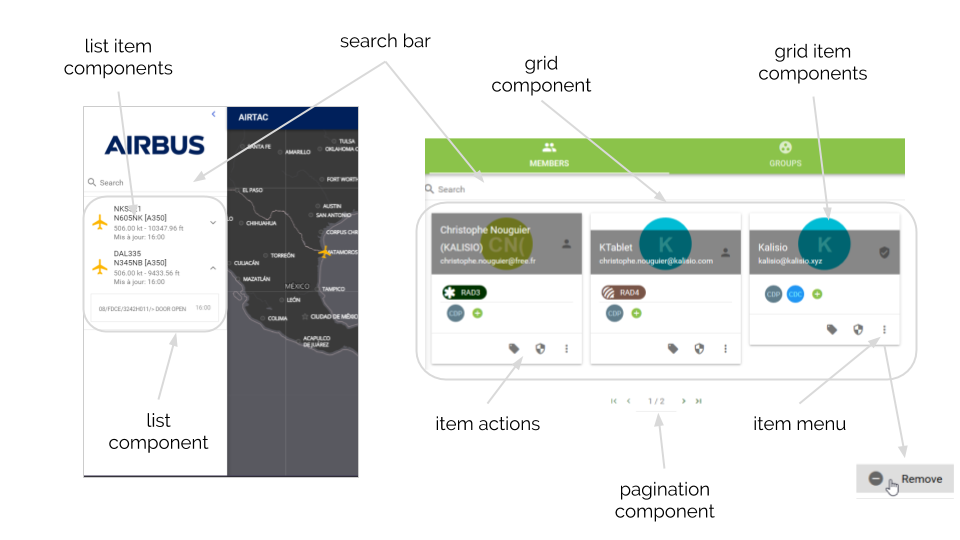
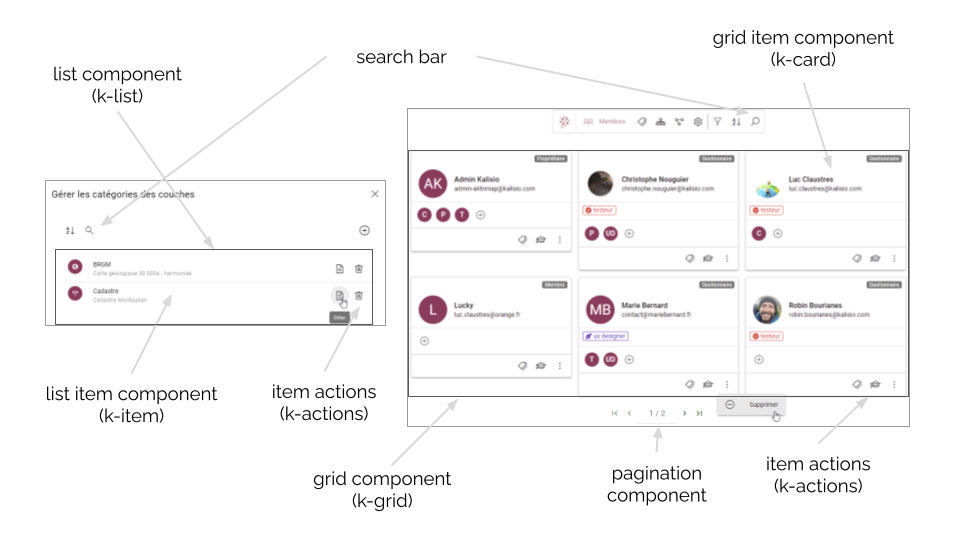
feat: Refactored and homogenize the layout (closes #285) Updated docs for v1.3

diff --git a/docs/api/core/components.md b/docs/api/core/components.md
@@ -8,34 +8,46 @@ There is no generic activity component within the core module because activities
 
 ## Layout
 
-The basic application layout rely on [Material Design](https://material.io/), as illustred in our [Akt'n'Map](https://github.com/kalisio/aktnmap) application, and is the following:
+The basic application layout relies on [Material Design](https://material.io/) and is composed of a *page* with different *panes* that can de open/closed on-demand, as illustred in our [Kano](https://github.com/kalisio/kano) application:
 
-![Akt'n'Map layout](../../assets/aktnmap-layout.png)
+![Kano layout - 1](../../assets/kano-layout-1.png)
 
-The layout is flexible enough to only use part of it like e.g. the [Kano](https://github.com/kalisio/kano) application which is a map-centered UI with the following layout:
+Here is the layout in a different configuration to show additional components like the *window* composed of different *widgets* to be selected using a *tab* and the *FAB* (floating actions button):
 
-![Kano layout](../../assets/kano-layout.png)
+![Kano layout - 2](../../assets/kano-layout-2.png)
+
+The layout is flexible enough to only use part of it like e.g. the [Akt'n'Map](https://github.com/kalisio/aktnmap) application is not a map-centered UI and the bottom/right panes are not always used for instance. Althought it can be built programmatically it aims at being constructed from the [application configuration](../../guides/basics/step-by-step.md#frontend-side) as well.
 
 The **k-layout** component based on [QLayout](https://quasar.dev/layout/layout) contains the elements that wrap application's content:
-* **k-app-bar**: application bar shown on top of the page - can be overriden using the *header* slot
-* **k-side-nav** : a left side navigation panel (which is shown alongside page content on wide screens) - can be overriden using the *left* slot
-* **k-right-panel** : a right side panel (which can be shown alongside page content on wide screens) - can be overriden using the *right* slot
-* **k-tab-bar**: a navigation with [QTabs](https://quasar.dev/vue-components/tabs) - can be overriden using the *navigation* slot
-* **k-fab**: an action button based on a [Quasar Floating Action Button](https://quasar.dev/layout/floating-action-button) at the bottom right corner of the page
-* **k-search-bar**: a global search bar
-* the embedded content of the page (i.e. the **Activity**) as a [router-view](https://router.vuejs.org/api/#router-view)
+* **header**: page header based on [q-header](https://quasar.dev/layout/header-and-footer)
+* **footer**: page footer based on [q-footer](https://quasar.dev/layout/header-and-footer)
+* **page**: activity components are injected using [nested routes and lazy-loading](https://quasar.dev/layout/routing-with-layouts-and-pages)
+
+The embedded content of the page (i.e. the **Activity**) is a [router-view](https://router.vuejs.org/api/#router-view) pointing to a **k-page** component, which consists of a:
+* **top pane**: a panel shown on top of the page - usually used as an application bar
+* **left pane** : a left side navigation panel - usually used as a main menu
+* **right pane** : a right side panel - usually used as an additional contextual panel
+* **bottom pane**: a panel shown at the bottom of the page
+* **fab**: an action button based on a [Quasar Floating Action Button](https://quasar.dev/layout/floating-action-button) at the bottom right corner of the page
+* **page content**: additional page components to be dynamically injected into the activity
+* **window**: a top window, which can be maximized, composed of a set of widgets to provide additional graphical content
 
 ::: tip
-The application layout is usually wrapped using the **k-home** component that simply load it depending on the authentication state of the user.
+The application layout is usually wrapped using the **k-home** component that simply load it depending on the authentication state of the user. You can directly use the **k-layout** if you'd like.
 :::
 
-Some layout components are fixed for the entire application lifecycle, as such they read their own setup from the [application configuration](../../guides/basics/step-by-step.md#frontend-side): layout, home, side navigation.
+Some layout components are fixed for the entire application lifecycle, as such they read their own setup from the [application configuration](../../guides/basics/step-by-step.md#frontend-side): layout properties, header, footer.
 
-Some components are more dynamic and support to be updated depending on the current activity of the user: application bar, tab bar search bar, right panel, FAB. In this case the configuration is read from the [global store](./application.md#store) and any change watched to keep the components in sync.
+Others components are more dynamic and support to be updated depending on the current activity of the user: panes, window, FAB. In this case the configuration is read from the [global store](./application.md#store) and any change watched to keep the components in sync. The [initial state](./README.md#store-objects) of the store can be fed from the [application configuration](../../guides/basics/step-by-step.md#frontend-side) as well. In this case, a [binding](./README.md#layout) will occur at runtime between the configured content and the target Vue component (i.e. activity or item objects). The default behaviour is to read the configured content of the activity named `my-activity` from the `myActivity` (camel case) property in the application configuration.
 
 ::: tip
 The best thing to do to learn how to configure your application is to have a look to the config files of our production applications like [Akt'n'Map](https://github.com/kalisio/aktnmap/blob/master/config/default.js) and [Kano](https://github.com/kalisio/kano/blob/master/config/default.js)
 :::
+
+In order to provide a consistent look & feel as much as possible, components or user actions (i.e. buttons) in the window, FAB and the different panes are created through the following base components:
+* **k-action**: action button with different rendering mode depending on the context (`button`, `form-button`, `item`, `fab`, `fab-action`, etc.)
+* **k-content**: a list of [dynamic components](https://v3.vuejs.org/guide/component-basics.html#dynamic-components) which default to create **k-action** components from configured properties as a default behaviour
+* **k-panel**: a row/column of stacked **k-content** components (depending on the `horizontal` or `vertical` value of the `direction` property)
 
 ## Collections
 
@@ -96,6 +108,18 @@ However options of the **itemActions** are more complex:
   * **route**: route to be pushed when action is triggerred
   * **handler**: function to be called when action is triggerred
 * **menu**: the list of actions displayed in the menu, each action been described as above
+
+### History
+
+The **k-history** component is powered by [Quasar timeline](https://quasar.dev/vue-components/timeline). It also relies on the [service](./mixins.md#service) and [collection](./mixins.md#collection) mixins to manage its internal behaviour.
+
+The same properties as with the **k-grid** component can be used to customize it, the component to be used to render items defaults to `collection/KHistoryEntry`, which is pretty similar to a **k-card**.
+
+### Table
+
+The **k-table** component is powered by [Quasar lists](https://quasar.dev/vue-components/list-and-list-items) and [Quasar pagination](https://quasar.dev/vue-components/pagination). It also relies on the [service](./mixins.md#service) and [collection](./mixins.md#collection) mixins to manage its internal behaviour.
+
+The same properties as with the **k-grid** component can be used to customize it. There is no specific component to be used to render items as it relies on the rows of the table. As a consequence, the `item-actions` property has to be directly set on the **k-table** component.
 
 ## Forms 
 

diff --git a/docs/guides/basics/step-by-step.md b/docs/guides/basics/step-by-step.md
@@ -187,14 +187,35 @@ kApp frontend configuration is based on the same underlying [tool](https://githu
   * **changeEndpoint**: change endpoint screen configuration (only useful for mobile apps)
     * **links**: links displayed at the bottom of the screen,
 * **layout**: layout configuration, see [Quasar docs](https://quasar.dev/layout/layout) for details
-  * **sideNav**: component to be used for the side bar, e.g. `'layout/KSideNav'`
-* **sideNav**:
-  * **banner**: image to be used as banner
-  * **components**: object containing as keys configuration key names (like `XXX`) and corresponding component to be used as values
-* **XXX**: configuration object for component YYY of e.g. side navigation
+* **myActivity**: configuration of the activity named `my-activity` in the application
+  * **topPane**: application bar components configuration for this activity
+    * **content**: list of components to be displayed according to current mode of the activity (if any),
+    * **filter**: component filter using any expression supported by [sift](https://github.com/crcn/sift.js),
+  * **leftPane**: left pane (i.e. main menu) components configuration for this activity
+    * **content**: list of components to be displayed according to current mode of the activity (if any),
+    * **filter**: component filter using any expression supported by [sift](https://github.com/crcn/sift.js),
+  * **bottomPane**: bottom pane components configuration for this activity
+    * **content**: list of components to be displayed according to current mode of the activity (if any),
+    * **filter**: component filter using any expression supported by [sift](https://github.com/crcn/sift.js),
+  * **rightPane**: right pane components configuration for this activity
+    * **content**: list of components to be displayed according to current mode of the activity (if any),
+    * **filter**: component filter using any expression supported by [sift](https://github.com/crcn/sift.js),
+  * **page**: additional page components configuration for this activity
+    * **content**: list of components to be displayed according to current mode of the activity (if any),
+    * **filter**: component filter using any expression supported by [sift](https://github.com/crcn/sift.js),
+  * **window**: window (i.e. widgets) configuration for this activity
+    * **widgets**: list of widgets to be displayed,
+    * **filter**: component filter using any expression supported by [sift](https://github.com/crcn/sift.js),
+  * **fab**: floating action button (FAB) configuration for this activity
+    * **actions**: list of actions to be displayed,
+    * **filter**: action filter using any expression supported by [sift](https://github.com/crcn/sift.js)
 
 ::: tip 
 The main difference with the backend configuration is that the actual frontend configuration is generated by WebPack at build time from the config files, so you will need to rebuild the app to see your changes applied
+::: 
+
+::: warning 
+Althought we use JS objects en environment variables in the frontend configuration to ease writing it please note that the resulting configuration file will be a static JSON file so don't store complex JS objects like functions in the config as it will not work
 ::: 
 
 Environment variables for the frontend development server (will override defaults):
